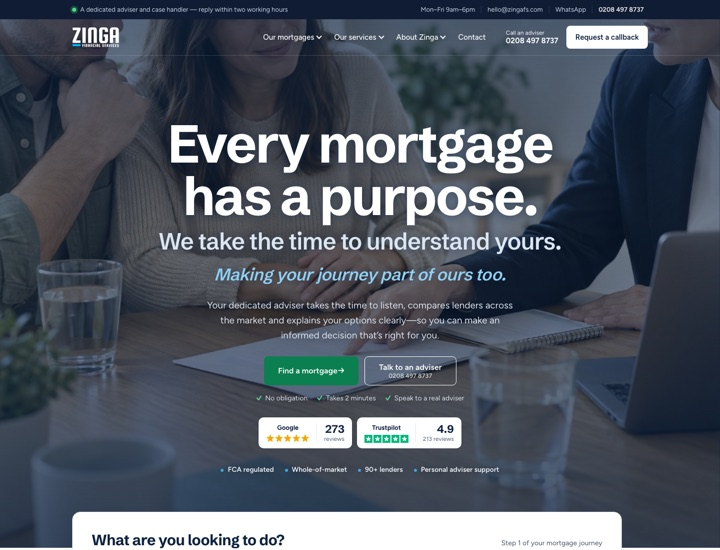
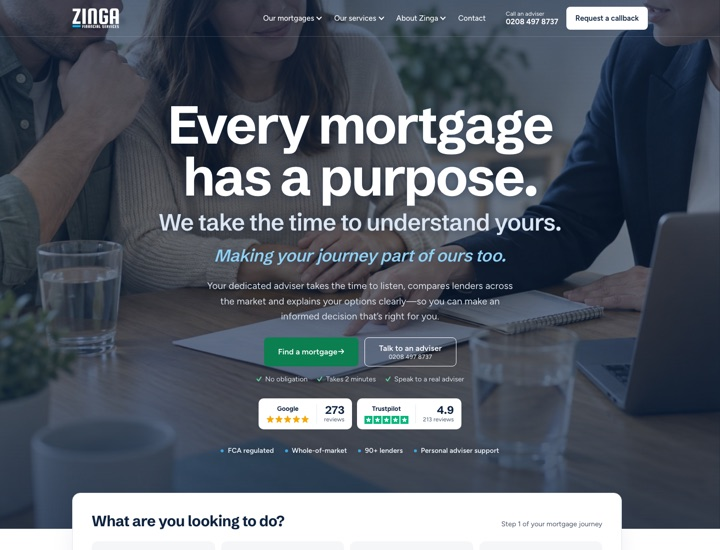
Options C and D: drop the top bar so the image starts at the very top

diff --git a/hero-photo-full/index.html b/hero-photo-full/index.html
@@ -28,22 +28,8 @@
 <body  class="header-overlay" >
 <a class="skip-link" href="#main">Skip to content</a>
 <div class="page">
-    <div class="topbar" role="region" aria-label="Contact and regulatory information">
-        <div class="container topbar-inner">
-            <p class="topbar-msg">
-                <span class="topbar-dot" aria-hidden="true"></span>
-                A dedicated adviser and case handler — reply within two working hours
-            </p>
-            <ul class="topbar-links">
-                
-                <li class="topbar-hide-sm"><span>Mon–Fri 9am–6pm</span></li>
-                <li class="topbar-hide-sm"><a href="mailto:hello@zingafs.com">hello@zingafs.com</a></li>
-                                    <li class="topbar-hide-sm"><a href="https://wa.me/442084978737" rel="noopener" target="_blank" data-event="whatsapp_click" data-location="topbar">WhatsApp</a></li>
-                                <li><a class="topbar-phone" href="tel:02084978737" data-event="call_click" data-location="topbar">0208 497 8737</a></li>
-            </ul>
-        </div>
-    </div>
-    <header class="site-header" id="site-header">
+    
+        <header class="site-header" id="site-header">
     <div class="container header-bar">
         <a class="logo" href="./" aria-label="Zinga Financial Services home">
             <img class="logo-dark" src="images/zinga-logo.png" alt="Zinga Financial Services" width="94" height="40">
@@ -561,7 +547,7 @@
                             <div class="hp-field" aria-hidden="true">
                                 <label>Leave this field empty <input type="text" name="website" tabindex="-1" autocomplete="off"></label>
                             </div>
[2 lines of base64/hex data omitted]
                         </fieldset>
 
                         <p class="error hp-step-error" data-step-error role="alert" hidden></p>

diff --git a/hero-video-full/index.html b/hero-video-full/index.html
@@ -28,22 +28,8 @@
 <body  class="header-overlay" >
 <a class="skip-link" href="#main">Skip to content</a>
 <div class="page">
-    <div class="topbar" role="region" aria-label="Contact and regulatory information">
-        <div class="container topbar-inner">
-            <p class="topbar-msg">
-                <span class="topbar-dot" aria-hidden="true"></span>
-                A dedicated adviser and case handler — reply within two working hours
-            </p>
-            <ul class="topbar-links">
-                
-                <li class="topbar-hide-sm"><span>Mon–Fri 9am–6pm</span></li>
-                <li class="topbar-hide-sm"><a href="mailto:hello@zingafs.com">hello@zingafs.com</a></li>
-                                    <li class="topbar-hide-sm"><a href="https://wa.me/442084978737" rel="noopener" target="_blank" data-event="whatsapp_click" data-location="topbar">WhatsApp</a></li>
-                                <li><a class="topbar-phone" href="tel:02084978737" data-event="call_click" data-location="topbar">0208 497 8737</a></li>
-            </ul>
-        </div>
-    </div>
-    <header class="site-header" id="site-header">
+    
+        <header class="site-header" id="site-header">
     <div class="container header-bar">
         <a class="logo" href="./" aria-label="Zinga Financial Services home">
             <img class="logo-dark" src="images/zinga-logo.png" alt="Zinga Financial Services" width="94" height="40">
@@ -565,7 +551,7 @@
                             <div class="hp-field" aria-hidden="true">
                                 <label>Leave this field empty <input type="text" name="website" tabindex="-1" autocomplete="off"></label>
                             </div>
[2 lines of base64/hex data omitted]
                         </fieldset>
 
                         <p class="error hp-step-error" data-step-error role="alert" hidden></p>

diff --git a/index.html b/index.html
@@ -80,7 +80,7 @@
         <div class="body">
           <span class="tag new">Option C · 9 Oct</span>
           <h2>Photo behind the menu</h2>
-          <p>The same photo, but it runs right up behind the menu bar, which turns transparent with a white logo. It switches back to the normal white menu as soon as you scroll or open a menu. Option D shows the same with the video.</p>
+          <p>The same photo, but it runs right up behind the menu bar, which turns transparent with a white logo. There's no top bar, so the photo starts at the very top of the page. It switches back to the normal white menu as soon as you scroll or open a menu. Option D shows the same with the video.</p>
           <span class="go">View option C →</span>
         </div>
       </a>
